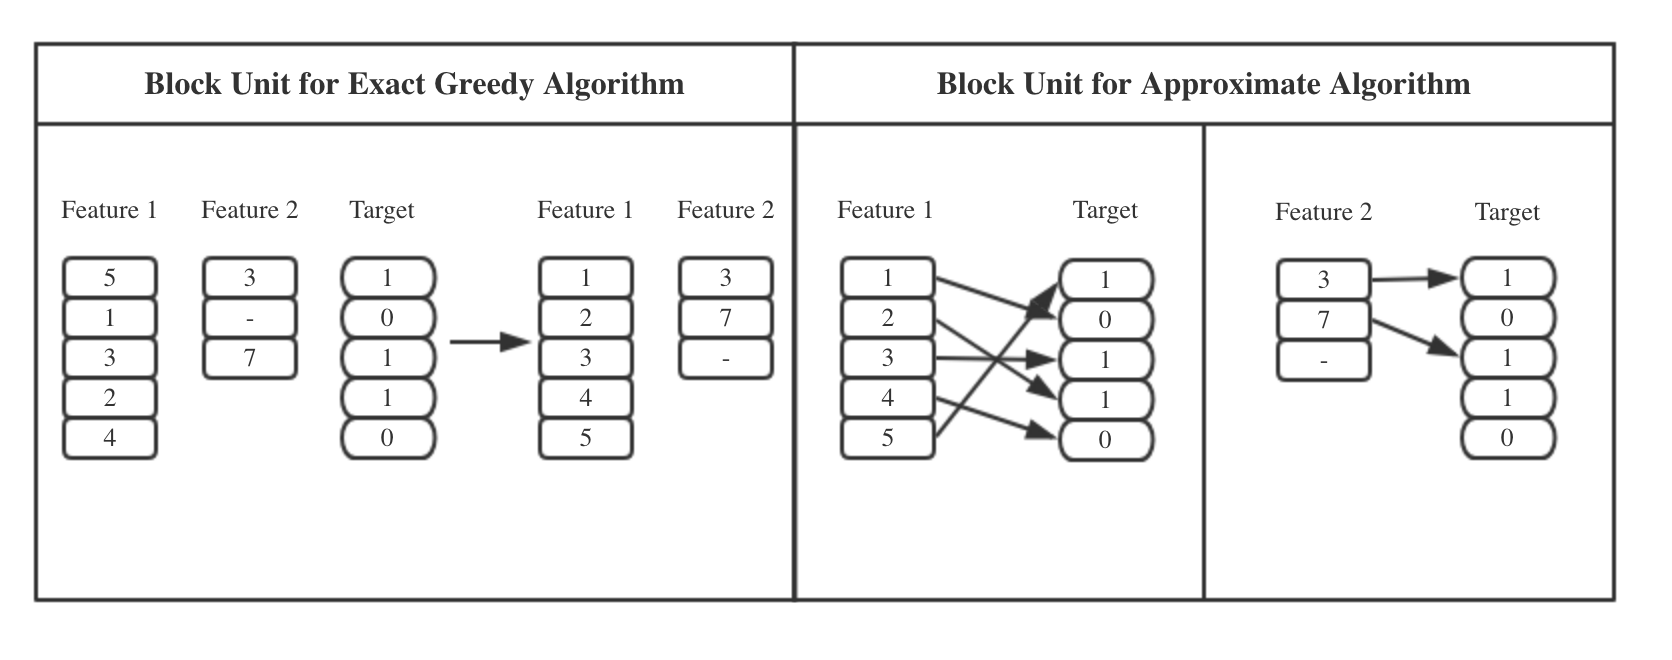
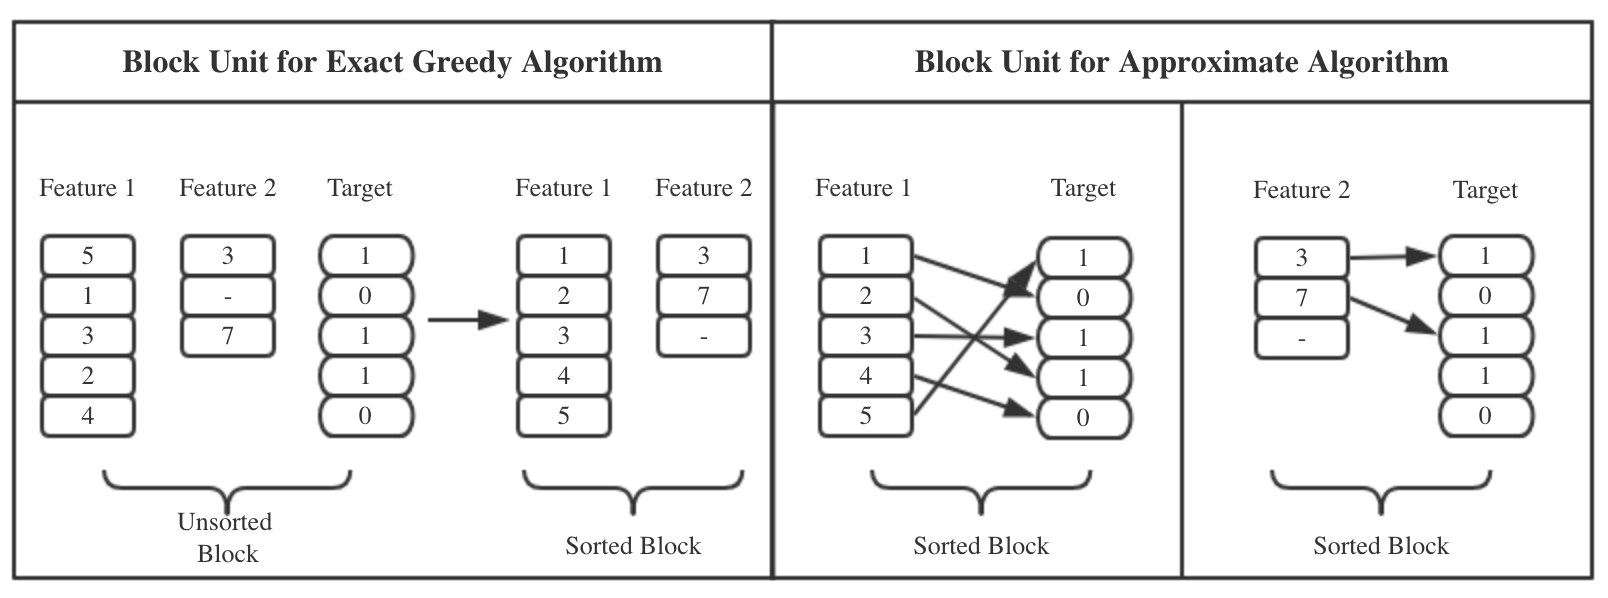
GBDT

Changed region(s): [[0.0, 0.0301, 0.995, 0.9933], [0.7774, 0.7826, 0.9328, 0.8729], [0.5286, 0.7826, 0.6841, 0.8729]]

diff --git a/_posts/2018-05-19-blog-post-13.md b/_posts/2018-05-19-blog-post-13.md
@@ -79,20 +79,22 @@ With all these knowledge and fomula in mind, then it's much easier for you to un
 ## XGBoost
 We all know or have heard of XGBoost is extremely efficient, that's why it becomes the most popular tools for Kaggle competition. But do you know why XGB can work so powerful and fast?
 
-```
-Pre-knowledge:
-
-block: in-memory unit, used to store data
-
-```
 **1. Reduce time by redesigning data access & storage**
 
-The most time-consuming part in tree learning is to sort the feature values. In order to reduce the time, XGB applies column block and cache-aware access strategies, which greatly reduces the I/O reading time.
+The most time-consuming part in tree learning is to sort the feature values. In order to reduce the time, XGB applies column block and cache-aware access strategies, which greatly reduces the data accessing time.
 
 **1.1 Column Block**
-XBG stores the data in a compressed column format in in-memory units, which called block. The feature values will be sorted only once before training, instead of doing sorting in each split finding iterations.
+XGB stores the data in a compressed column format in in-memory units, which called block. The feature values will be sorted only once before training, instead of doing sorting in each split finding iterations.
 
-For exact greedy algo, the **entire** data is stored in **a single block**, and **one scan** through the block can get all the statistics of the proposed points.
+For exact greedy algo:
+1. the **entire** data is stored in **a single block**,
+2. **one scan** through the block can get **all the statistics** of the proposed points.
+
+For approximate algo:
+1. data subset of rows stored in multiple blocks,
+2. blocks can be distributed over machine, or even stored on disk,
+3. enables a linear scan over the sorted columns, and the statistics collecting for each feature can be **parallelized**,
+4. block also supports column subsample, which I will talk about later.
 
 **1.2 Cache-aware Access**
 
@@ -103,7 +105,7 @@ For exact greedy algo, the **entire** data is stored in **a single block**, and 
 **2. Reduce time by improving the algorithm: enable automatic sparse data handling**
 
 Sparse data is very common in both classfication and regression problems, when doing split finding, XGB offers a new option to be aware of these sparse data. Shown in Figure 7, when doing value sorting, only non-missing entries will be accessed. `Such strategy helps to reduce the time cost for sorting.` XGB also adds a default direction in each node. when coming across a missing value, the entry will be classified into the default direction. 
-<p float="left"><img src="/images/xgb1.jpg" width="280" /></p>
+<p float="left"><img src="/images/xgb1.jpg" width="320" /></p>
 
 **Figure 7. Sparsity-aware Split Finding Algorithm**
 
